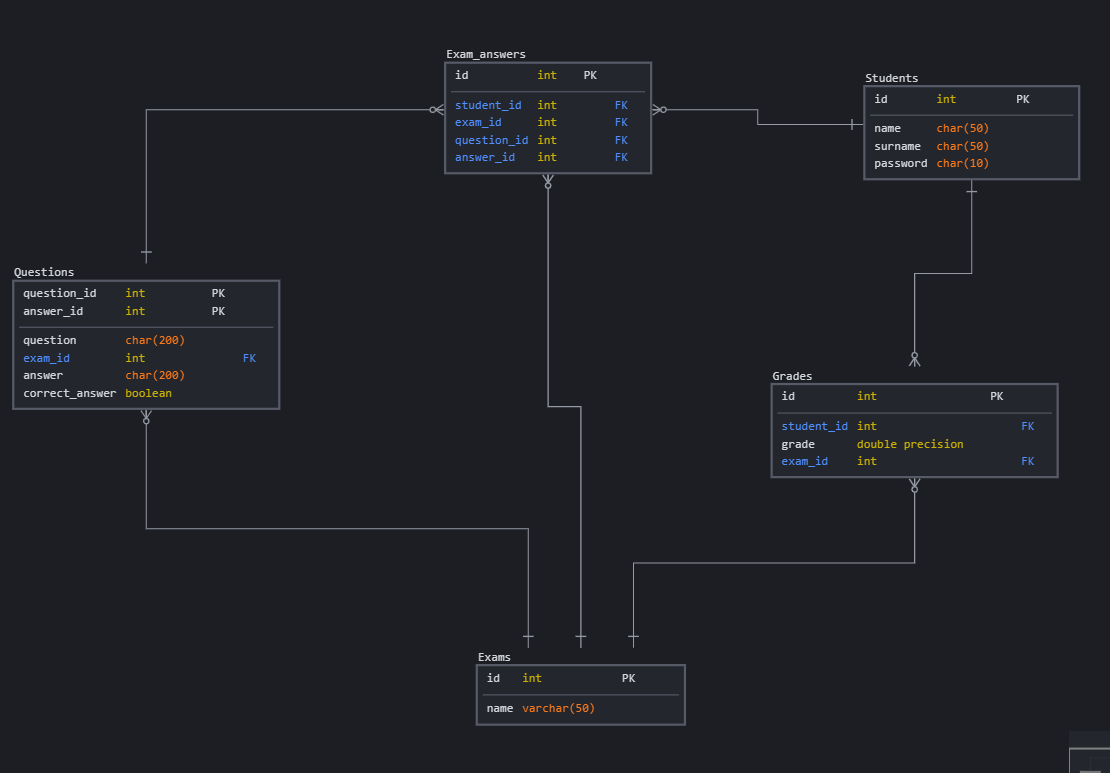
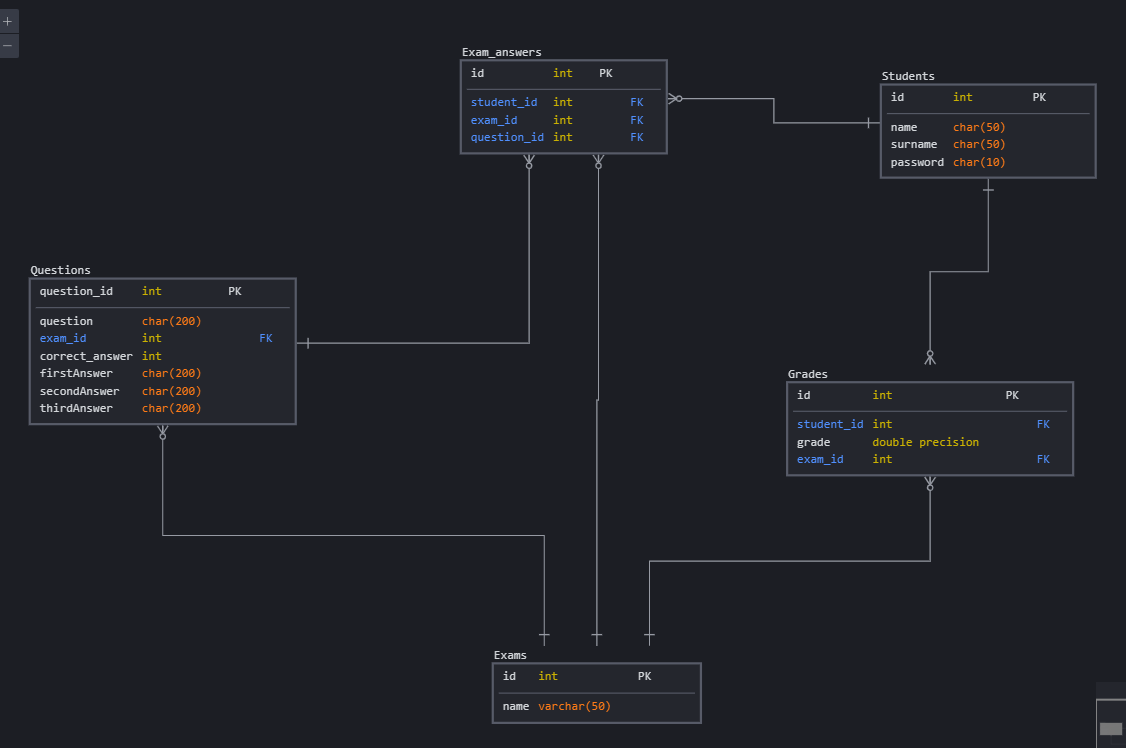
added examAnswers

diff --git a/src/main/java/dbProject/ui/UserInterface.java b/src/main/java/dbProject/ui/UserInterface.java
@@ -6,7 +6,7 @@ import dbProject.domain.Student;
 import dbProject.repository.ExamRepository;
 import dbProject.repository.QuestionRepository;
 import dbProject.repository.StudentRepository;
-import dbProject.service.ExamAnswerRepository;
+import dbProject.repository.ExamAnswerRepository;
 
 import java.util.Scanner;
 
@@ -20,15 +20,19 @@ public class UserInterface {
 
     ExamRepository examRepository = new ExamRepository();
 
-    ExamAnswerRepository examAnswerRepository=new ExamAnswerRepository();
+    ExamAnswerRepository examAnswerRepository = new ExamAnswerRepository();
 
     public void start() {
         while(true) {
-            System.out.println("Choose what you want to do: " + "\n 1. Take exam?" + "\n 2. Enter new question" + "\n 3. Edit existing question" + "\n 4. Check statistics" + "\n 5. Log out");
+            System.out.println("Choose what you want to do: " +
+                    "\n 1. Take exam?" +
+                    "\n 2. Enter new question" +
+                    "\n 3. Edit existing question" +
+                    "\n 4. Check statistics" +
+                    "\n 5. Log out");
             Integer variant = scanner.nextInt();
             if(variant > 0 && variant < 5) {
                 letsDoSomeStuff(variant);
-                break;
             }
             if(variant == 5) {
                 System.exit(-1);
@@ -98,7 +102,7 @@ public class UserInterface {
             Integer examId = scanner.nextInt();
             Exam exam = examRepository.getExamById(examId);
             if(exam != null) {
-                examAnswerRepository.takeExam(exam);
+                examAnswerRepository.takeExam(student, exam);
             } else {
                 createNewExam();
             }

diff --git a/src/main/java/dbProject/repository/QuestionRepository.java b/src/main/java/dbProject/repository/QuestionRepository.java
@@ -2,7 +2,6 @@ package dbProject.repository;
 
 import dbProject.domain.Exam;
 import dbProject.domain.Question;
-import dbProject.domain.Student;
 import dbProject.provider.SessionFactoryProvider;
 import org.hibernate.query.Query;
 
@@ -11,24 +10,24 @@ import java.util.List;
 public class QuestionRepository {
 
     public Question createNewQuestion(Question question) {
-        SessionFactoryProvider.changeEntity(session -> session.save(question));
+        SessionFactoryProvider.editInstance(session -> session.save(question));
         return question;
     }
 
     public Question getQuestionByQuestionId(Integer questionId) {
-        return SessionFactoryProvider.getEntity(session -> session.get(Question.class, questionId));
+        return SessionFactoryProvider.getInstance(session -> session.get(Question.class, questionId));
     }
 
     public void deleteQuestion(Question question){
-        SessionFactoryProvider.changeEntity(session -> session.delete(question));
+        SessionFactoryProvider.editInstance(session -> session.delete(question));
     }
 
     public void editQuestion(Question question){
-        SessionFactoryProvider.changeEntity(session -> session.update(question));
+        SessionFactoryProvider.editInstance(session -> session.update(question));
     }
 
     public List<Question> getQuestionsByExam(Exam exam){
-     return SessionFactoryProvider.getEntity(session -> {
+     return SessionFactoryProvider.getInstance(session -> {
             Query query = session.createQuery("from Question where exam_id=:id");
             query.setParameter("id", exam.getId());
             return query.list();

diff --git a/src/main/java/dbProject/repository/ExamAnswerRepository.java b/src/main/java/dbProject/repository/ExamAnswerRepository.java
@@ -1,0 +1,32 @@
+package dbProject.repository;
+
+import dbProject.domain.Exam;
+import dbProject.domain.ExamAnswer;
+import dbProject.domain.Question;
+import dbProject.domain.Student;
+import dbProject.provider.SessionFactoryProvider;
+
+import java.util.List;
+import java.util.Scanner;
+
+public class ExamAnswerRepository {
+
+    Scanner scanner = new Scanner(System.in);
+
+    QuestionRepository questionRepository = new QuestionRepository();
+
+    public void takeExam(Student student, Exam exam) {
+        List<Question> questions = questionRepository.getQuestionsByExam(exam);
+        for(Question question : questions) {
+            System.out.println("Question: " + question.getQuestion());
+            System.out.println("First answer: " + question.getFirstAnswer());
+            System.out.println("Second answer: " + question.getSecondAnswer());
+            System.out.println("Third answer: " + question.getThirdAnswer());
+            System.out.println("Write correct answer");
+            Integer atsakymas = scanner.nextInt();
+            ExamAnswer examAnswer = new ExamAnswer(question, atsakymas, exam, student);
+            SessionFactoryProvider.editInstance(session -> session.save(examAnswer));
+        }
+    }
+}
+

diff --git a/src/main/java/dbProject/domain/ExamAnswer.java b/src/main/java/dbProject/domain/ExamAnswer.java
@@ -17,16 +17,21 @@ public class ExamAnswer {
     @GeneratedValue(strategy = GenerationType.AUTO)
     private Integer id;
 
-    @ManyToMany(cascade = CascadeType.ALL, fetch = FetchType.EAGER)
-    Set<Question> questions;
+    @ManyToOne(cascade = CascadeType.ALL, fetch = FetchType.EAGER)
+    Question questions;
 
     Integer answer;
 
-    @ManyToMany(cascade = CascadeType.ALL, fetch = FetchType.EAGER)
-    Set<Exam> exams;
+    @ManyToOne(cascade = CascadeType.ALL, fetch = FetchType.EAGER)
+    Exam exam;
 
-    @ManyToMany(cascade = CascadeType.ALL, fetch = FetchType.EAGER)
-    Set<Student> students;
+    @ManyToOne(cascade = CascadeType.ALL, fetch = FetchType.EAGER)
+    Student student;
 
-
+    public ExamAnswer(Question questions, Integer answer, Exam exam, Student student) {
+        this.questions = questions;
+        this.answer = answer;
+        this.exam = exam;
+        this.student = student;
+    }
 }

diff --git a/src/main/java/dbProject/repository/StudentRepository.java b/src/main/java/dbProject/repository/StudentRepository.java
@@ -7,15 +7,15 @@ import java.util.List;
 public class StudentRepository {
 
     public Student checkStudentById(Integer studentId) {
-        return SessionFactoryProvider.getEntity(session -> session.get(Student.class, studentId));
+        return SessionFactoryProvider.getInstance(session -> session.get(Student.class, studentId));
     }
 
     public List<Student> getAllStudents() {
-        return SessionFactoryProvider.getEntity(session -> session.createQuery("FROM Student", Student.class).list());
+        return SessionFactoryProvider.getInstance(session -> session.createQuery("FROM Student", Student.class).list());
     }
 
     public Student createNewStudent(Student student){
-         SessionFactoryProvider.changeEntity(session -> session.save(student));
+         SessionFactoryProvider.editInstance(session -> session.save(student));
         return student;
     }
 }

diff --git a/src/main/java/dbProject/provider/SessionFactoryProvider.java b/src/main/java/dbProject/provider/SessionFactoryProvider.java
@@ -49,7 +49,7 @@ public class SessionFactoryProvider {
         return sessionFactory;
     }
 
-    public static void changeEntity(Consumer<Session> consumer) {
+    public static void editInstance(Consumer<Session> consumer) {
         Transaction transaction = null;
         Session session = null;
         try {
@@ -69,7 +69,7 @@ public class SessionFactoryProvider {
         }
     }
 
-    public static <T> T getEntity(Function<Session, T> function) {
+    public static <T> T getInstance(Function<Session, T> function) {
         try(Session session = SessionFactoryProvider.getSessionFactoryProvider().getSessionFactory().openSession();) {
             return function.apply(session);
         } catch(Exception e) {

diff --git a/src/main/java/dbProject/domain/Question.java b/src/main/java/dbProject/domain/Question.java
@@ -3,6 +3,7 @@ package dbProject.domain;
 import lombok.*;
 
 import javax.persistence.*;
+import java.util.Set;
 
 @Getter
 @Setter
@@ -33,6 +34,11 @@ public class Question {
 
     @ManyToOne(cascade = CascadeType.ALL, fetch = FetchType.EAGER)
     private Exam exam;
+
+    @OneToMany(mappedBy = "questions", cascade = CascadeType.ALL, fetch = FetchType.EAGER)
+    private Set<ExamAnswer> examAnswers;
+
+
 
     public Question(Integer question_id, @NonNull String question, @NonNull String firstAnswer, @NonNull String secondAnswer, @NonNull String thirdAnswer, @NonNull Integer correctAnswerNr, @NonNull Exam exam) {
         this.question_id = question_id;

diff --git a/src/main/java/dbProject/repository/ExamRepository.java b/src/main/java/dbProject/repository/ExamRepository.java
@@ -3,19 +3,13 @@ package dbProject.repository;
 import dbProject.domain.Exam;
 import dbProject.provider.SessionFactoryProvider;
 
-import java.util.List;
-
 public class ExamRepository {
 
-
     public Exam getExamById(Integer examId) {
-        return SessionFactoryProvider.getEntity(session -> session.get(Exam.class, examId));
+        return SessionFactoryProvider.getInstance(session -> session.get(Exam.class, examId));
     }
 
     public void createNewExam(Exam exam) {
-        SessionFactoryProvider.changeEntity(session -> session.save(exam));
+        SessionFactoryProvider.editInstance(session -> session.save(exam));
     }
-
-
-
 }

diff --git a/src/main/java/dbProject/domain/Student.java b/src/main/java/dbProject/domain/Student.java
@@ -3,6 +3,7 @@ package dbProject.domain;
 import lombok.*;
 
 import javax.persistence.*;
+import java.util.Set;
 
 @Getter
 @Setter
@@ -22,6 +23,9 @@ public class Student {
     private String surname;
 
     private String password;
+
+    @OneToMany(mappedBy = "student", cascade = CascadeType.ALL, fetch = FetchType.EAGER)
+    private Set<ExamAnswer> examAnswers;
 
     public Student(String name, String surname, String password) {
         this.name = name;

diff --git a/src/main/java/dbProject/domain/Exam.java b/src/main/java/dbProject/domain/Exam.java
@@ -21,6 +21,9 @@ public class Exam {
     @OneToMany(mappedBy = "exam", cascade = CascadeType.ALL, fetch = FetchType.EAGER)
     private Set<Question> questions;
 
+    @OneToMany(mappedBy = "exam", cascade = CascadeType.ALL, fetch = FetchType.EAGER)
+    private Set<ExamAnswer> examAnswers;
+
     public Exam(Integer id, String name) {
         this.id = id;
         this.name = name;
